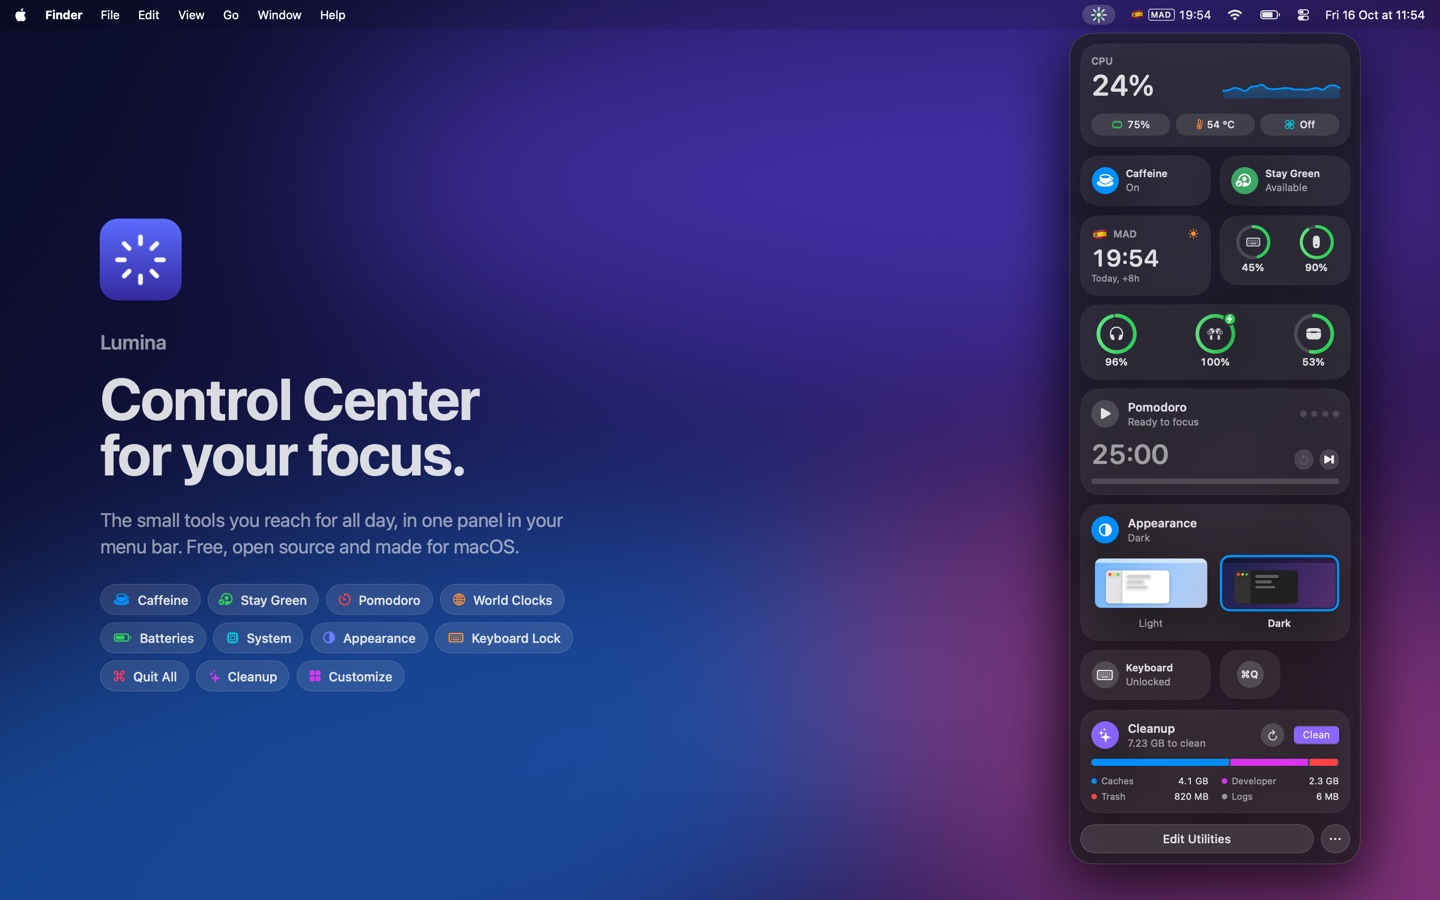
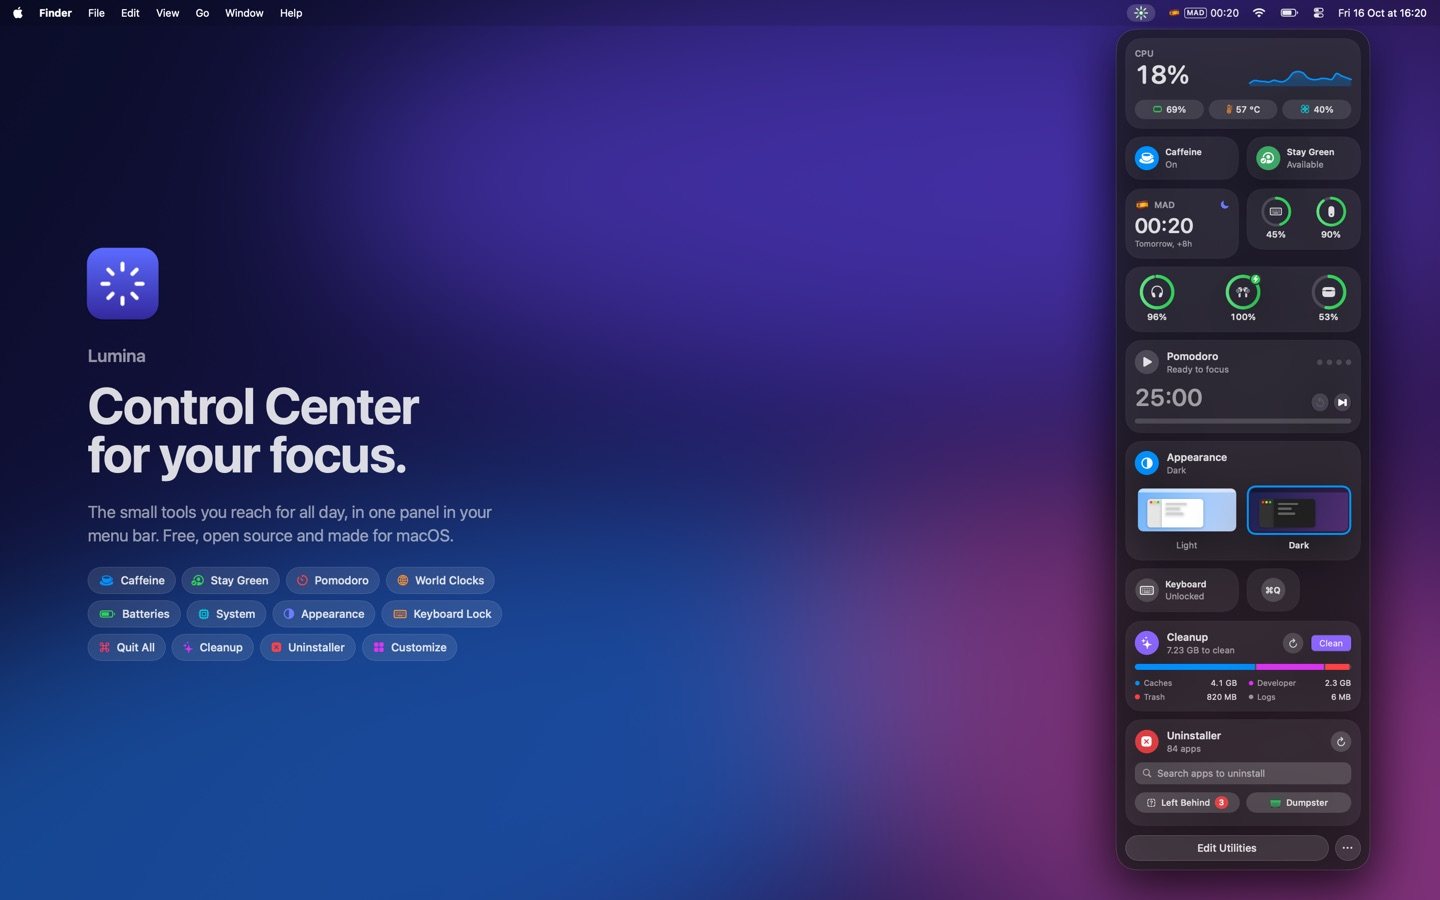
Add the Uninstaller to the marketing images, with sample results
The marketing renderer would have shown this Mac's installed apps, so it
gives the Uninstaller fixed sample results, like Cleanup's. The heroes
now show the Uninstaller tile at the end of the panel, it gets its own
feature card, and the README gallery lists it.

Changed region(s): [[0.7188, 0.0, 1.0, 0.9956], [0.0625, 0.2178, 0.4062, 0.7778], [0.0, 0.0, 0.25, 0.0311]]

diff --git a/scripts/marketing/main.swift b/scripts/marketing/main.swift
@@ -1001,6 +1001,17 @@ MainActor.assumeIsolated {
         [.caches: 4_100_000_000, .developer: 2_300_000_000, .trash: 820_000_000, .logs: 6_000_000],
         availableCapacity: 221_200_000_000
     )
+    UninstallerController.shared.showSampleResults(appCount: 84, leftBehind: [
+        LeftBehindApp(bundleID: "com.spotify.client", name: "Spotify", items: [
+            Leftover(url: URL(fileURLWithPath: "/sample/spotify"), kind: .caches, bytes: 210_000_000),
+        ]),
+        LeftBehindApp(bundleID: "us.zoom.xos", name: "Zoom", items: [
+            Leftover(url: URL(fileURLWithPath: "/sample/zoom"), kind: .applicationSupport, bytes: 96_000_000),
+        ]),
+        LeftBehindApp(bundleID: "notion.id", name: "Notion", items: [
+            Leftover(url: URL(fileURLWithPath: "/sample/notion"), kind: .caches, bytes: 41_000_000),
+        ]),
+    ])
 
     let featuresDirectory = marketing.appendingPathComponent("features")
     try? FileManager.default.removeItem(at: featuresDirectory)

diff --git a/Sources/Lumina/Utilities/Uninstaller/UninstallerController.swift b/Sources/Lumina/Utilities/Uninstaller/UninstallerController.swift
@@ -278,6 +278,26 @@ final class UninstallerController: NSObject {
         return sizes
     }
 
+    #if MARKETING
+    /// Shows fixed results instead of this Mac's apps, for the images
+    /// scripts/render-marketing.sh makes (it builds with MARKETING defined).
+    func showSampleResults(appCount: Int, leftBehind sample: [LeftBehindApp]) {
+        scanTask?.cancel()
+        apps = (0..<appCount).map { index in
+            InstalledApp(
+                url: URL(fileURLWithPath: "/Applications/Sample \(index).app"),
+                bundleID: "com.example.sample\(index)", name: "Sample \(index)",
+                version: nil, vendor: nil, lastUsed: .now, bytes: 200_000_000
+            )
+        }
+        leftBehind = sample
+        hasScanned = true
+        isScanning = false
+        // Fresh, so the tile doesn't scan this Mac when it appears.
+        lastScan = .now
+    }
+    #endif
+
     // MARK: - Pages
 
     func openList(tab: ListTab = .lastOpened) {

diff --git a/README.md b/README.md
@@ -45,6 +45,7 @@
 <td width="50%"><a href="docs/marketing/features/cleanup.png"><img src="docs/marketing/readme/features/cleanup.jpg" alt="Cleanup: Junk out, space back."></a></td>
 </tr>
 <tr>
+<td width="50%"><a href="docs/marketing/features/uninstaller.png"><img src="docs/marketing/readme/features/uninstaller.jpg" alt="Uninstaller: Gone means gone."></a></td>
 <td width="50%"><a href="docs/marketing/features/customize.png"><img src="docs/marketing/readme/features/customize.jpg" alt="Customize: Make it yours."></a></td>
 </tr>
 </table>
@@ -184,7 +185,7 @@ scripts/render-marketing.sh
 
 The script compiles Lumina's sources, minus its `@main`, together with `scripts/marketing/main.swift` into a small renderer. It also rewrites the gallery between the `features` markers in this README. That file holds the scenes, layouts and copy; `Feature.all` lists each feature's card. Features come from the app, `Utility.catalog` and the Library's **Add New** items, so a new utility gets a card, a pill in the hero and a tile at the end of the hero's panel on the next run. The hero's desktop grows as needed so the panel always fits. Until it has an entry in `Feature.all`, its card is plain and the script prints a warning.
 
-While it runs it turns on Caffeine and Stay Green and samples the system monitor for about 45 seconds, so the CPU graph has history. System readings and clock times are live; battery devices and Cleanup's results are fixed samples (the renderer builds with `MARKETING` defined for that). The light hero sets only the renderer's own appearance, never the system's.
+While it runs it turns on Caffeine and Stay Green and samples the system monitor for about 45 seconds, so the CPU graph has history. System readings and clock times are live; battery devices and Cleanup's and the Uninstaller's results are fixed samples (the renderer builds with `MARKETING` defined for that). The light hero sets only the renderer's own appearance, never the system's.
 
 ## Adding a utility
 
